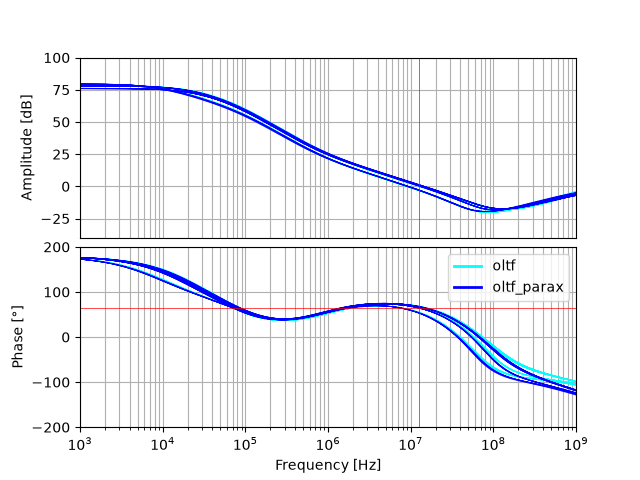
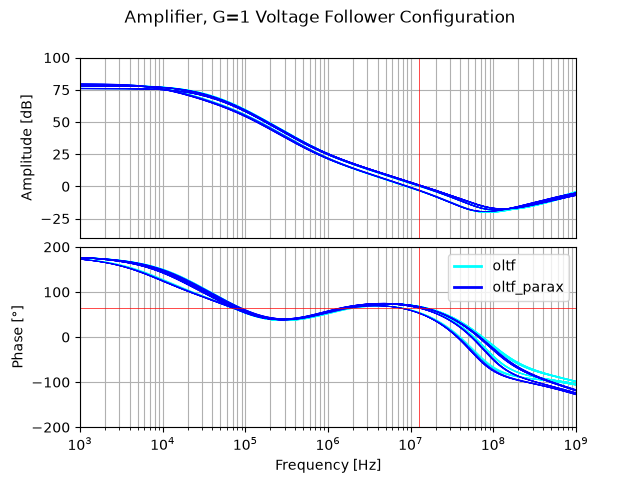
Github really hates figure captions.

diff --git a/xschem/test/tb_amplifier_x1_ac.py b/xschem/test/tb_amplifier_x1_ac.py
@@ -80,4 +80,5 @@ def test_plot_impedance(data,bandwidth,phase_margin):
     ]
 
     plt.legend(handles=handles)
+    fig.suptitle("Amplifier, G=1 Voltage Follower Configuration")
     plt.savefig("tb_amplifier_x1_ac.png")

diff --git a/xschem/test/tb_amplifier_x10_ac.py b/xschem/test/tb_amplifier_x10_ac.py
@@ -80,4 +80,5 @@ def test_plot_impedance(data,bandwidth,phase_margin):
     ]
 
     plt.legend(handles=handles)
+    fig.suptitle("Amplifier, G=-10 Inverting Configuration")
     plt.savefig("tb_amplifier_x10_ac.png")

diff --git a/docs/amplifier/README.md b/docs/amplifier/README.md
@@ -13,10 +13,6 @@ DC bias for both configurations is simulated in the 0.5V to 1.5V range which is 
 
 ![x1 Mode](../../xschem/docs/tb_amplifier_x1_ac.png)
 
-*Voltage Follower Configuration* 
-
 ![x10 Mode](../../xschem/docs/tb_amplifier_x10_ac.png)
-
-*x10 Gain Inverting Amplifier Configuration* 
 
 For both configurations a minimum phase margin of $45\deg$ is required with a typical goal of $60\deg$. Gain bandwidth product is design to be $>10MHz$.
